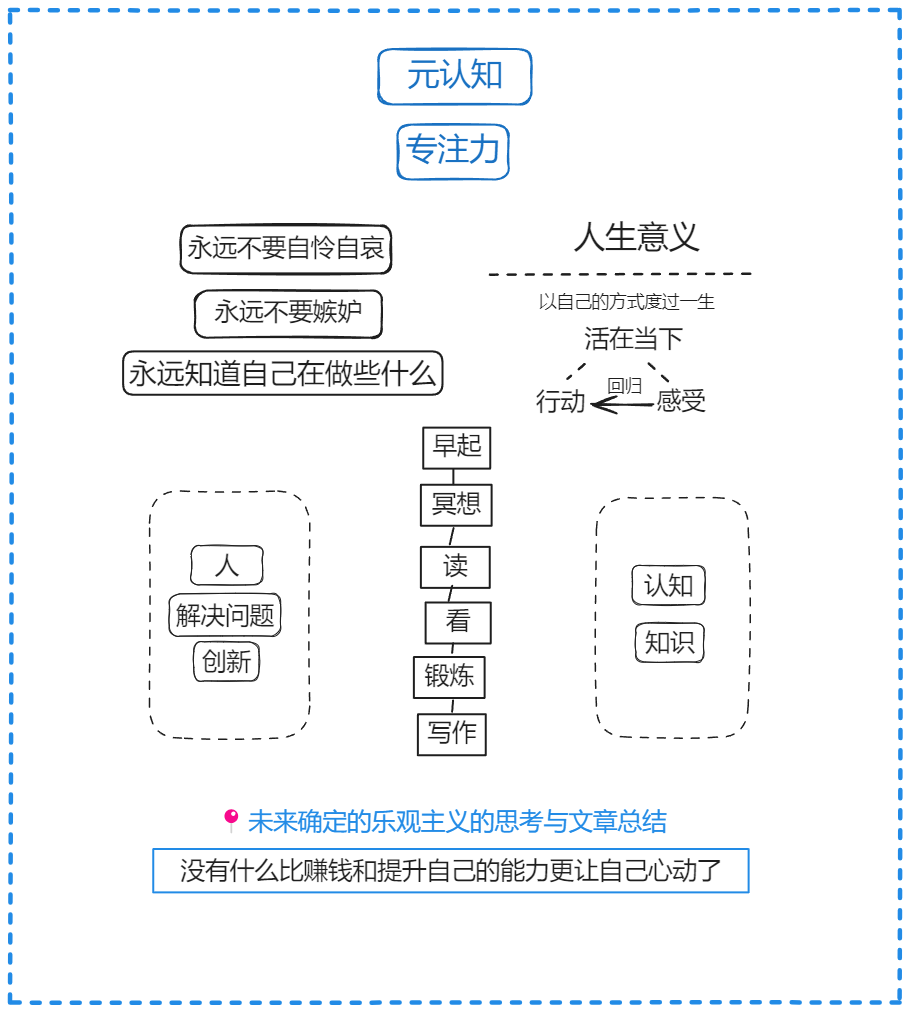
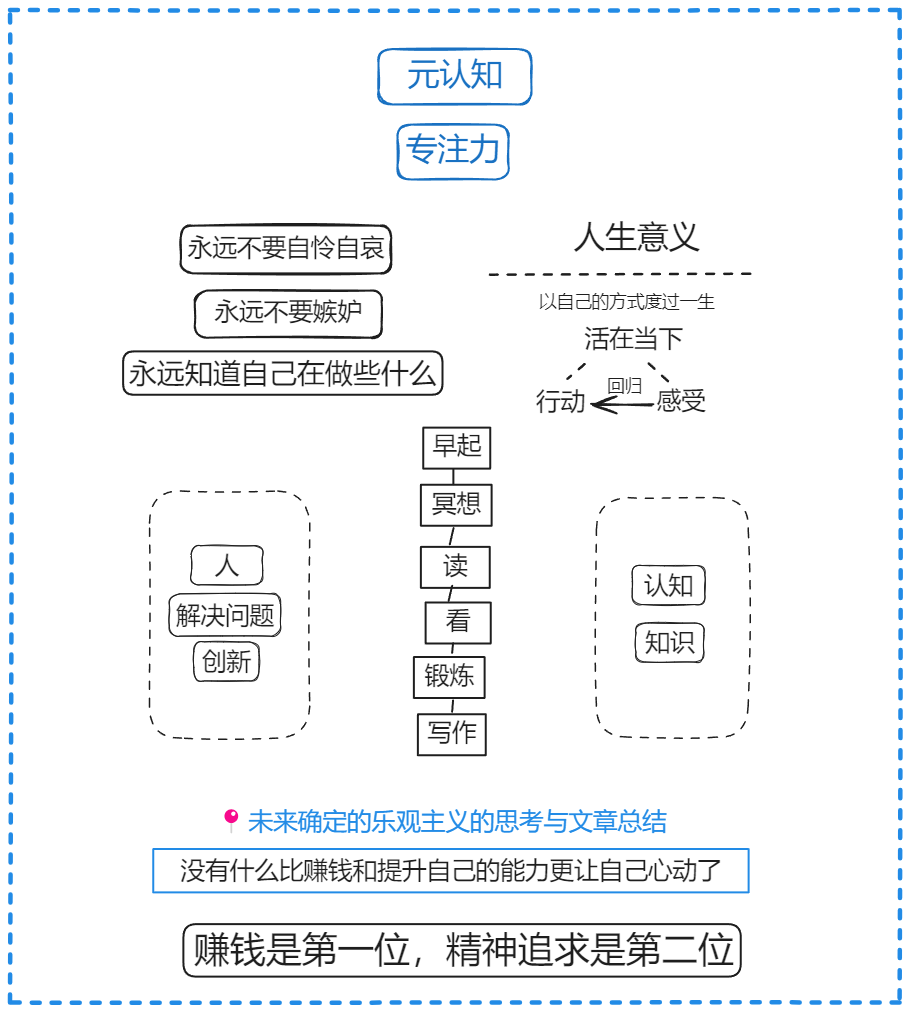
vault backup: 2024-10-03 11:34:16

Changed region(s): [[0.4928, 0.919, 0.8317, 0.9802], [0.1848, 0.919, 0.3696, 0.9802], [0.4004, 0.919, 0.462, 0.9802]]

diff --git a/Excalidraw/日常.md b/Excalidraw/日常.md
@@ -58,157 +58,167 @@ tags: [excalidraw]
 
 永远知道自己在做些什么 ^BOlplemu
 
+赚钱是第一位，精神追求是第二位 ^DW0LfqYn
+
 %%
 ## Drawing
 ```compressed-json
[2 lines of base64/hex data omitted]
 
[2 lines of base64/hex data omitted]
 
[2 lines of base64/hex data omitted]
 
[2 lines of base64/hex data omitted]
 
[2 lines of base64/hex data omitted]
 
[2 lines of base64/hex data omitted]
 
[2 lines of base64/hex data omitted]
 
[2 lines of base64/hex data omitted]
 
[2 lines of base64/hex data omitted]
 
[2 lines of base64/hex data omitted]
 
[2 lines of base64/hex data omitted]
 
[2 lines of base64/hex data omitted]
 
[2 lines of base64/hex data omitted]
 
[2 lines of base64/hex data omitted]
 
[2 lines of base64/hex data omitted]
 
[2 lines of base64/hex data omitted]
 
[2 lines of base64/hex data omitted]
 
[2 lines of base64/hex data omitted]
 
[2 lines of base64/hex data omitted]
 
[2 lines of base64/hex data omitted]
 
[2 lines of base64/hex data omitted]
 
[2 lines of base64/hex data omitted]
 
[2 lines of base64/hex data omitted]
 
[2 lines of base64/hex data omitted]
 
[2 lines of base64/hex data omitted]
 
[2 lines of base64/hex data omitted]
 
[2 lines of base64/hex data omitted]
 
[2 lines of base64/hex data omitted]
 
[2 lines of base64/hex data omitted]
 
[2 lines of base64/hex data omitted]
 
[2 lines of base64/hex data omitted]
 
[2 lines of base64/hex data omitted]
 
[2 lines of base64/hex data omitted]
 
[2 lines of base64/hex data omitted]
 
[2 lines of base64/hex data omitted]
 
[2 lines of base64/hex data omitted]
 
[2 lines of base64/hex data omitted]
 
[2 lines of base64/hex data omitted]
 
[2 lines of base64/hex data omitted]
 
[2 lines of base64/hex data omitted]
 
[2 lines of base64/hex data omitted]
 
[2 lines of base64/hex data omitted]
 
[2 lines of base64/hex data omitted]
 
[2 lines of base64/hex data omitted]
 
[2 lines of base64/hex data omitted]
 
[2 lines of base64/hex data omitted]
 
[2 lines of base64/hex data omitted]
 
[2 lines of base64/hex data omitted]
 
[2 lines of base64/hex data omitted]
 
[2 lines of base64/hex data omitted]
 
[2 lines of base64/hex data omitted]
 
[2 lines of base64/hex data omitted]
 
[2 lines of base64/hex data omitted]
 
[2 lines of base64/hex data omitted]
 
[2 lines of base64/hex data omitted]
 
[2 lines of base64/hex data omitted]
 
[2 lines of base64/hex data omitted]
 
[2 lines of base64/hex data omitted]
 
[2 lines of base64/hex data omitted]
 
[2 lines of base64/hex data omitted]
 
[2 lines of base64/hex data omitted]
 
[2 lines of base64/hex data omitted]
 
[2 lines of base64/hex data omitted]
 
[2 lines of base64/hex data omitted]
 
[2 lines of base64/hex data omitted]
 
[2 lines of base64/hex data omitted]
 
[2 lines of base64/hex data omitted]
 
[2 lines of base64/hex data omitted]
 
[2 lines of base64/hex data omitted]
 
[2 lines of base64/hex data omitted]
 
[2 lines of base64/hex data omitted]
 
[2 lines of base64/hex data omitted]
 
[2 lines of base64/hex data omitted]
 
[2 lines of base64/hex data omitted]
 
[2 lines of base64/hex data omitted]
+
[1 lines of base64/hex data omitted]
+
[1 lines of base64/hex data omitted]
+
[1 lines of base64/hex data omitted]
+
[1 lines of base64/hex data omitted]
 ```
 %%
